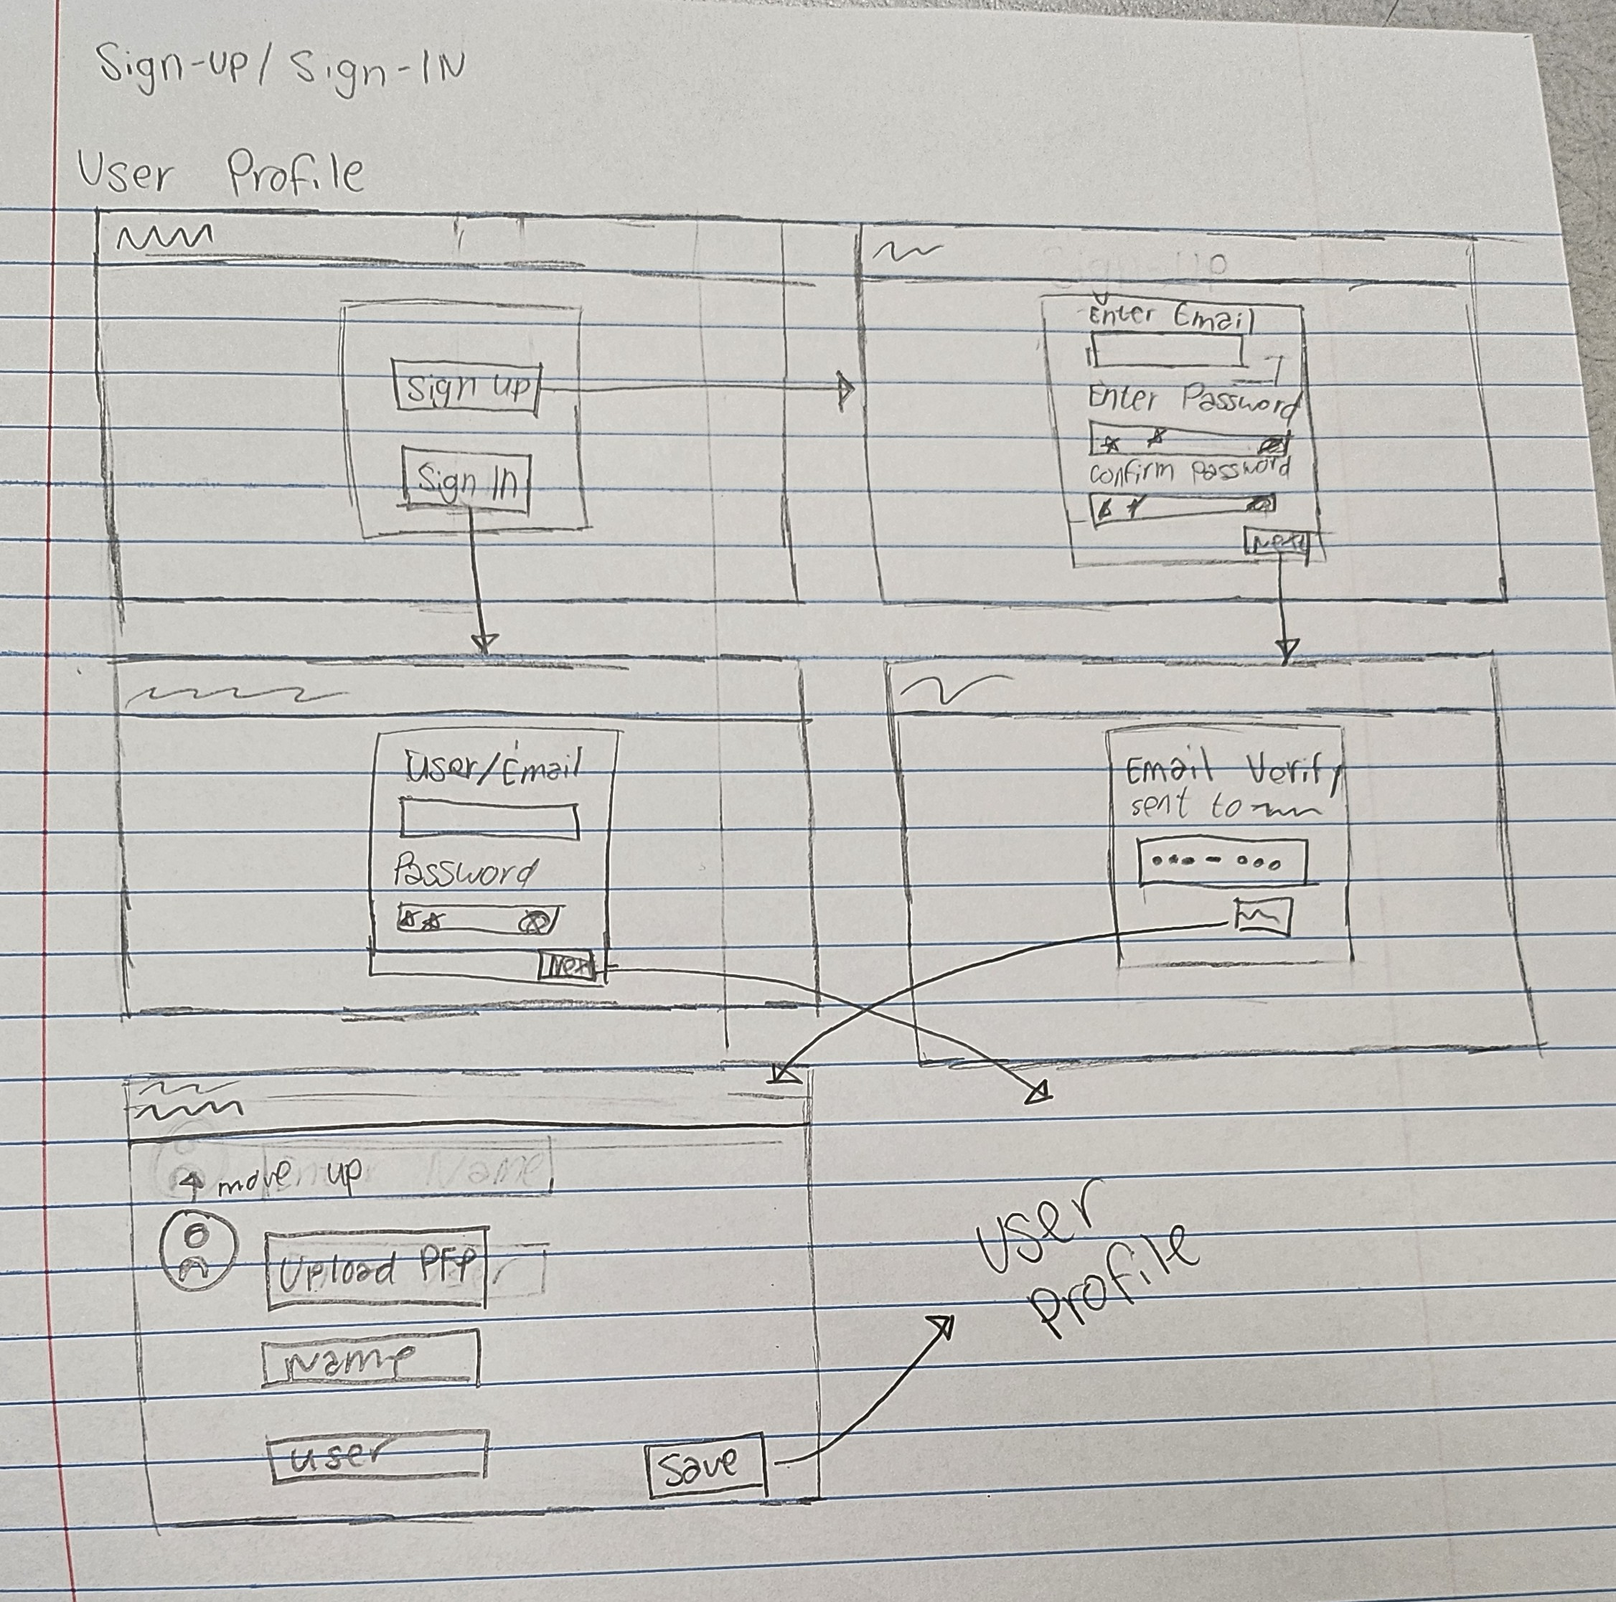
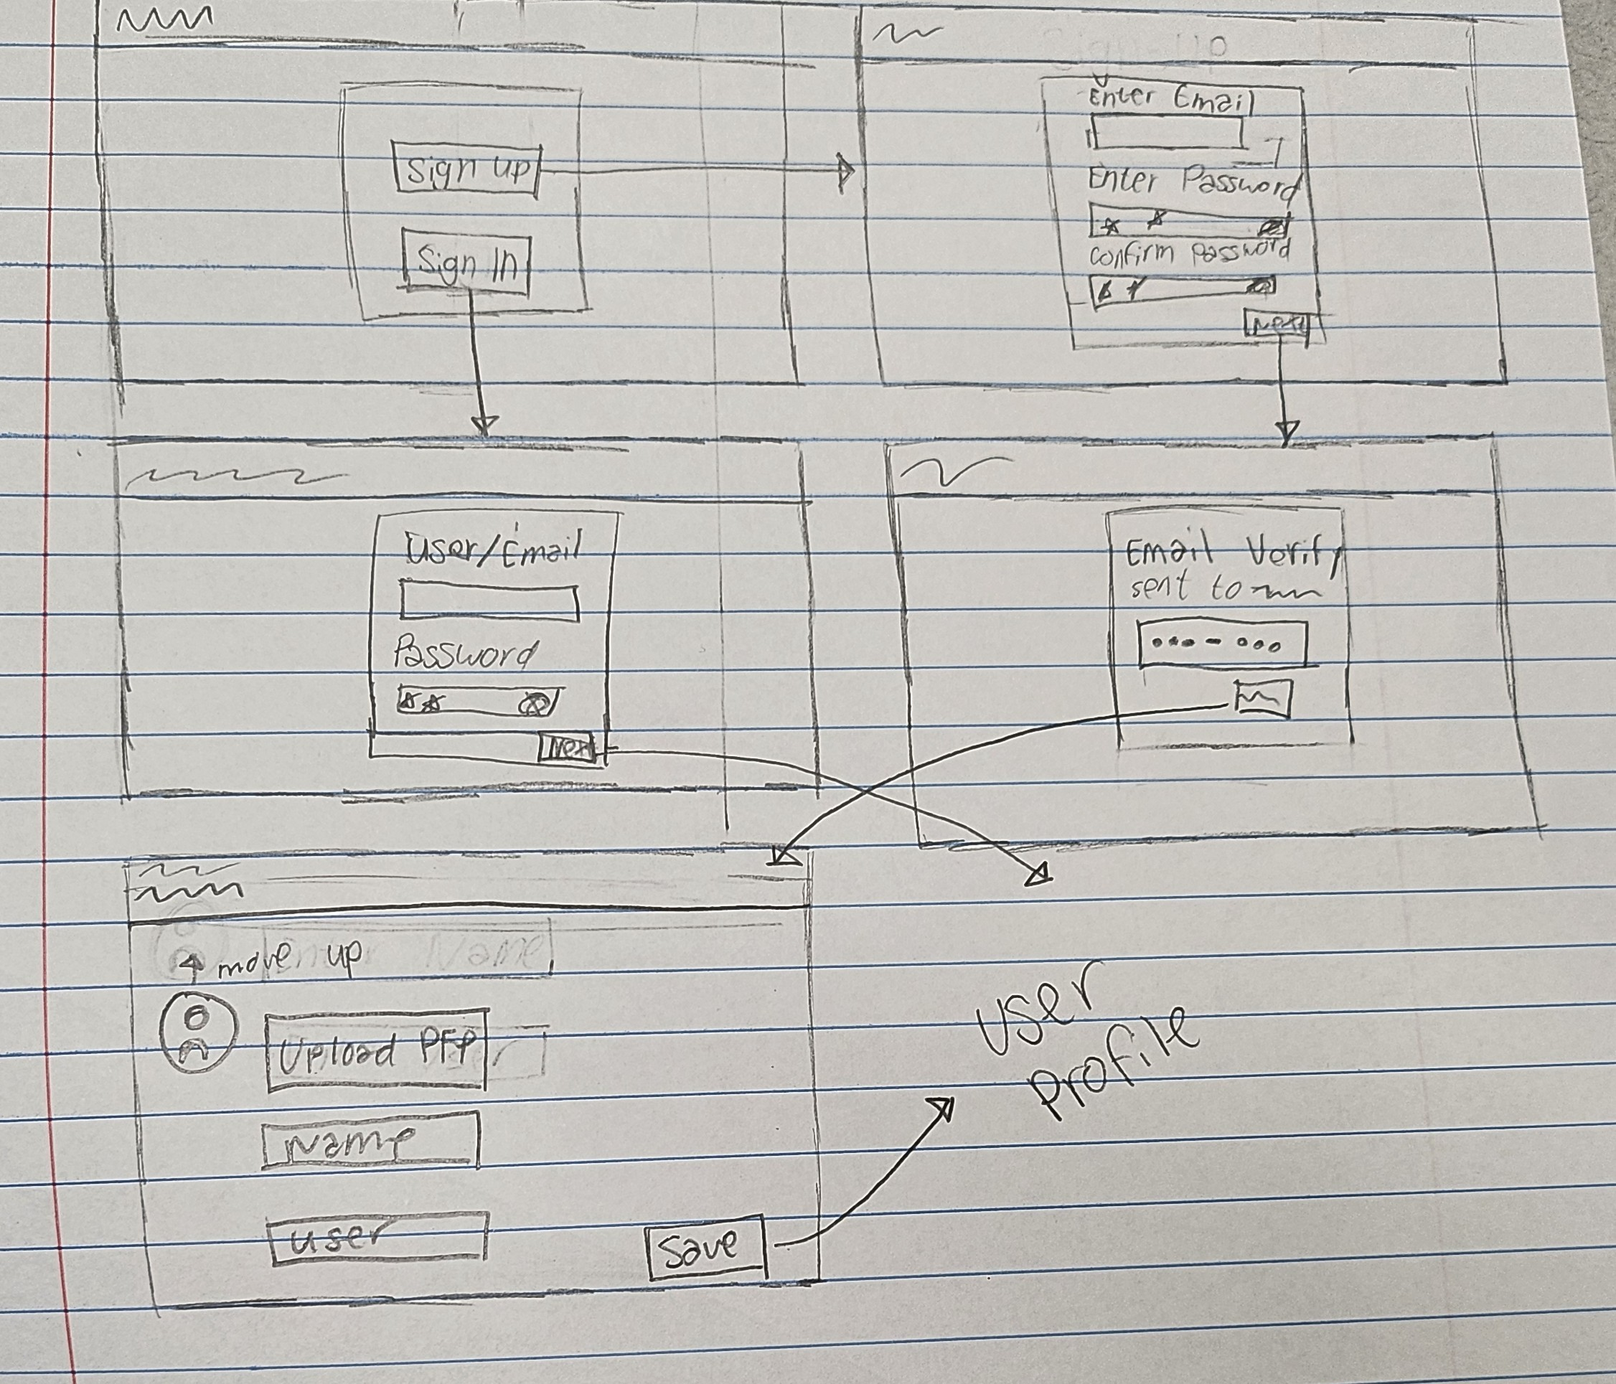
added more images, finished the kain na case study page

Changed region(s): [[0.0, 0.0, 1.0, 0.9953], [0.8703, 0.9953, 0.9636, 1.0]]

diff --git a/projects/kain-na.html b/projects/kain-na.html
@@ -44,13 +44,13 @@
                 <div class="case-hero-text">
                     <!-- Introductory text content -->
                     <h1 id="project-title">Kain Na!</h1>
-                    <p>Lorem ipsum dolor sit amet consectetur adipiscing elit occaecat sunt. Blanditiis nostrud incididunt possimus quis nulla minus libero laboris et deserunt nam in. Eos enim rerum quibusdam qui iusto commodo. Esse fugiat dolore nihil occaecat in. Omnis et dolor imperdiet animi nam sint dolore dolore in id.</p>
+                    <p>A recipe app designed to help Filipino Americans reconnect with their culture through home cooked meals. Our team set out to answer one question: how can we connect Filipino Americans back to their culture? Through interviews, we learned that food carries family, nostalgia, and belonging, so we designed an experience that makes cultural recipes easier to find, follow, and keep</p>
                 </div>
 
                 <dl class="case-meta project-info">
                     <div>
                     <dt>Role</dt>
-                    <dd>UX Designer</dd>
+                    <dd>UX/UI Designer</dd>
                     <dd>Collaborated with 6 other designers and 7 developers</dd>
                     </div>
                     <div>
@@ -61,7 +61,7 @@
                     <div>
                     <dt>Timeline</dt>
                     <dd>Jan 2026 - May 2026</dd>
-                    <dd>Winter/Spring 2026</dd>
+                    <dd>Completed Project</dd>
                     </div>
                 </dl>
 
@@ -79,8 +79,27 @@
                         </div>
                         <div class="phase-card">
                             <div class="phase-content">
-                                <h2>Phase Title</h2>
-                                <p>Lorem ipsum dolor sit amet consectetur adipiscing elit occaecat sunt. Blanditiis nostrud incididunt possimus quis nulla minus libero laboris et deserunt nam in. Eos enim rerum quibusdam qui iusto commodo. Esse fugiat dolore nihil occaecat in. Omnis et dolor imperdiet animi nam sint dolore dolore in id.</p>
+                                <h2>Understanding the Challenge</h2>
+                                <p><strong>Goal:</strong> Learn what home cooked meals meant to Filipino Americans and other young adults tied to their culture.
+                                <br><strong>What I did:</strong> With one of my teammates, I developed our interview protocol and we each ran 2 semi-structured interviews. We focused on speaking to college students about their family recipes, tradition, authenticity, homesickness, and challenges learning new dishes to cook at home. As a team, we synthesized our findings into an affinity map and created key pain points to guide our design decisions.
+                                <br><strong>What we found:</strong></p>
+                                <ul class="phase-findings">
+                                    <li>Food is a way to connect with family and culture.</li>
+                                    <li>Recipes are so often passed down verbally or by watching, so many details get lost or forgotten when it isn't written down.</li>
+                                    <li>Cooking unfamiliar dishes feels overwhelming, and many people would rather watch how it's done instead of just reading about it.</li>
+                                    <li>A seemingly simple recipe can vary from family to family, so just any recipe won't do if they want the one they grew up with.</li>
+                                    <li>Hard-to-find ingredients and unclear substitutions are a recurring barrier</li>
+                                </ul>
+                                <figure class="user-story">
+                                    <blockquote style="padding: 0;">
+                                        <p>I'm not trying to make the best dish, I'm trying to <mark class="highlight">replicate what my mom and grandma's food tastes like.</mark></p>
+                                    </blockquote>
+                                </figure>
+                                <div class="phase-images">
+                                    <figure class="phase-figure">
+                                        <img src="assets/kain na affinity.png" alt="Affinity diagram with points and quotes from user interviews grouped into 3 different pain points" class="phase-image">
+                                    </figure>
+                                </div>
                             </div>
                         </div>
                     </li>
@@ -92,10 +111,15 @@
                         </div>
                         <div class="phase-card">
                             <div class="phase-content">
-                                <h2>Phase Title</h2>
-                                <p>Lorem ipsum dolor sit amet consectetur adipiscing elit occaecat sunt. Blanditiis nostrud incididunt possimus quis nulla minus libero laboris et deserunt nam in. Eos enim rerum quibusdam qui iusto commodo. Esse fugiat dolore nihil occaecat in. Omnis et dolor imperdiet animi nam sint dolore dolore in id.</p>
+                                <h2>From Insights to Features</h2>
+                                <p><strong>Goal:</strong> Decide what the app needs to do based on what we heard.
+                                <br><strong>What we did:</strong> After creating our affinity diagram, we took each of the pain points and chose key features we wanted to include in order to adddress them. Increasing cooking confidence led us to create clear, visual recipe layouts. Uncommon ingrediants introduced the idea of a glossary to show potential alternatives. Family history became a key point to bring everything back to the culture, but not making it an obstacle to the recipe.</p>
                             </div>
-                            <img src="placeholder.jpg" alt="Phase Image" class="phase-image">
+                            <div class="phase-images">
+                                <figure class="phase-figure">
+                                    <img src="assets/kain na key features.png" alt="Groups of FigJam sticky notes listing off the key design features" class="phase-image">
+                                </figure>
+                            </div>
                         </div>
                     </li>
 
@@ -106,25 +130,100 @@
                         </div>
                         <div class="phase-card">
                             <div class="phase-content">
-                                <h2>Phase Title</h2>
-                                <p>Lorem ipsum dolor sit amet consectetur adipiscing elit occaecat sunt. Blanditiis nostrud incididunt possimus quis nulla minus libero laboris et deserunt nam in. Eos enim rerum quibusdam qui iusto commodo. Esse fugiat dolore nihil occaecat in. Omnis et dolor imperdiet animi nam sint dolore dolore in id.</p>
+                                <h2>Mapping the Sign-Up/Sign-In Flow</h2>
+                                <p><strong>Goal:</strong> Make getting into the website simple and welcoming.
+                                <br><strong>What I did:</strong> I created the initial user flow diagram for the sign-up/sign-in and create profile processes. I started off with the user flow in Figma before creating hand-drawn low-fidelity mockups.</p>
                             </div>
-                            <img src="placeholder.jpg" alt="Phase Image" class="phase-image">
+                            <div class="phase-images">
+                                <figure class="phase-figure">
+                                    <img src="assets/kain na user flow.png" alt="FigJam User flow diagram outlining to process going from sign-up/sign-in to create profile" class="phase-image">
+                                </figure>
+                                <figure class="phase-figure">
+                                    <img src="assets/create-profile-paige.JPG" alt="Hand drawn mockup of the sign-up/sign-in process" class="phase-image">
+                            </div>
+                        </div>
+                    </li>
+
+                    <li class="phase-item">
+                        <div class="phase-marker">
+                            <span class="phase-label">Phase</span>
+                            <span class="phase-number">3</span>
+                        </div>
+                        <div class="phase-card">
+                            <div class="phase-content">
+                                <h2>Mid-fidelity and Hi-fidelity Mockups</h2>
+                                <p><strong>Goal:</strong> Use Figma to create mid-fidelity and hi-fidelity mockups of the sign-up/sign-in and create profile processes.
+                                <br><strong>What I did:</strong> I started with grayscale mid-fidelity wireframes of sign-in, sign-up, and create account to focus on layout and hierarchy. The create account screen collects an optional profile picture, name, username, bio, and interests, which tie back to the cultural connection theme. I then applied the visual style, including a soft blue palette and clear form labels with required field markers.
+                                <br><strong>What changed between versions:</strong></p>
+                                <ul class="phase-findings">
+                                    <li>Email-based sign-in became username-based, which simplified the form.</li>
+                                    <li>The sign-up form now collects first and last name up front.</li>
+                                </ul>
+                            <div class="phase-images">
+                                <figure class="phase-figure phase-images--stack">
+                                    <img src="assets/sign-in mid fi.png" alt="Mid-fidelity grayscale sign-in and sign-up screens" class="phase-image">
+                                </figure>
+                                <figure class="phase-figure">
+                                    <img src="assets/sign up hi fi.png" alt="Hi-fidelity sign-in and sign-up screens with a soft blue branding and a cute chef logo" class="phase-image">
+                                </figure>
+                                <div class="prototype-buttons-container">
+                                    <a href="https://www.figma.com/design/tON1N8Hsmj9dW1VQwqSlkv/-Team-1--Design-Files?node-id=6-20&t=uKBXORU6CSZUIarC-1" target="_blank" rel="noopener noreferrer" aria-label="View Mid-Fidelity Mockup (opens in new tab)" class="btn">View Mid-Fidelity Mockup</a>
+                                    <a href="https://www.figma.com/design/tON1N8Hsmj9dW1VQwqSlkv/-Team-1--Design-Files?node-id=6-21&t=uKBXORU6CSZUIarC-1" target="_blank" rel="noopener noreferrer" aria-label="View Hi-Fidelity Mockup (opens in new tab)" class="btn">View Hi-Fidelity Mockup</a>
+                                </div>
+                            </div>
+                        </div>
+                    </li>
+
+                    <li class="phase-item">
+                        <div class="phase-marker">
+                            <span class="phase-label">Phase</span>
+                            <span class="phase-number">4</span>
+                        </div>
+                        <div class="phase-card">
+                            <div class="phase-content">
+                                <h2>Component Ownership</h2>
+                                <p><strong>Goal:</strong> Create reusable pieces that keep the interface consistent and make developer handoff easier.
+                                <br><strong>What I did:</strong> I was assigned to work on a couple of additional key components for the app, including a recipe pop-up and an ingredient slide-out. I created blank mid-fidelity wireframes to focus on layout and hierarchy, making sure to include all the necessary information (author, rating, and details) when a user goes to expand the recipe before fully opening it. I then worked on reusing components made by my other teammates from the glossary section to create an ingrediant glossary slide out to show alternatives for hard-to-find ingredients.
+                                <br><strong>Why these are important:</strong></p>
+                                <ul class="phase-findings">
+                                    <li>The recipe pop-up gives users a brief introduction to the meal in order to help make sure it's a recipe they actually wanted to make.</li>
+                                    <li>During the design process, we found that users would have to keep going back and forth to access the ingrediant glossary. So instead we offered the option to open it right when you are in the middle of a recipe without losing your page.</li>
+                                </ul>
+                            <div class="phase-images">
+                                <figure class="phase-figure phase-images--stack">
+                                    <img src="assets/blank components.png" alt="Different states and iterations of the recipe pop-up and the ingrediant slide-out components" class="phase-image">
+                                </figure>
+                                <figure class="phase-figure">
+                                    <img src="assets/recipe pop up.png" alt="The recipe pop-up from the prototype showcasing the kind of information users will be able to see first" class="phase-image">
+                                </figure>
+                                <figure class="phase-figure">
+                                    <img src="assets/ingrediant slide out.png" alt="Recipe page with the ingredient glossary slide-out open" class="phase-image">
+                                </figure>
+                            </div>
                         </div>
                     </li>
 
                     <li class="phase-item">
                         <div class="phase-marker" style="border-color: #FFC663;">
                             <span class="phase-label">Phase</span>
-                            <span class="phase-number" style="color: #FFC663;">3</span>
+                            <span class="phase-number" style="color: #FFC663;">5</span>
                         </div>
                         <div class="phase-card">
                             <div class="phase-content">
-                                <h2>Phase Title</h2>
-                                <h3>[Phase Status]</h3>
-                                <p>Lorem ipsum dolor sit amet consectetur adipiscing elit occaecat sunt. Blanditiis nostrud incididunt possimus quis nulla minus libero laboris et deserunt nam in. Eos enim rerum quibusdam qui iusto commodo. Esse fugiat dolore nihil occaecat in. Omnis et dolor imperdiet animi nam sint dolore dolore in id.</p>
+                                <h2>Prototyping, Developer Hand-off, and Final Presentation</h2>
+                                <h3>COMPLETE</h3>
+                                <p><strong>Goal:</strong> Make the design behave like a real product, set the dev team up to build it, and present the finished result.
+                                <br><strong>What I did:</strong> I fully prototyped the app in Figma, including the interactions between screens, then passed it to our dev team. Designers delivered high-fidelity mockups, style guides, and interactive prototypes so the final code matched the intended look and behavior. Developers then turned those designs into a working website using Next.js, Express, SQL, and Supabase. We presented the finished product at the FUSION ICS expo at the end of the second quarter.
+                                <br><strong>The final result:</strong> As a team we successfully cdesigned and built a recipe-sharing platform where users can:</p>
+                                <ul>
+                                    <li>Browse and follow along with authentic Filipino recipes.</li>
+                                    <li>Learn about the history and culture behind each dish.</li>
+                                    <li>Share their own recipes and connect with other users.</li>
+                                    <li>Look up ingredients and find substitutes, so flavors can be recreated anywhere.</li>
+                                </ul>
+                                <p><strong>What I learned:</strong> This project was a great opportunity to work on a team of designers and developers, and to learn how to collaborate effectively. I learned how to create reusable components, how to prototype interactions, and how to communicate design decisions to developers. I also learned how to present my work in a clear and concise way, and how to give and receive feedback.</p>
                             </div>
-                            <img src="placeholder.jpg" alt="Phase Image" class="phase-image">
+                            <img src="assets/Kain Na! Poster.jpg" alt="Kain Na! project expo poster" class="phase-image">
                         </div>
                     </li>
                 </ol>

diff --git a/projects/case-study.css b/projects/case-study.css
@@ -86,6 +86,7 @@
 .prototype-buttons-container {
   display: flex;
   justify-content: center;
+  gap: 20px;
 }
 
 
@@ -238,18 +239,29 @@
   margin-bottom: 0;
 }
 
+.phase-images {
+  display: grid;
+  gap: 12px;
+  align-items: center;
+  justify-items: center;
+  width: 100%;
+  max-width: 700px;
+  margin: 0 auto;
+}
+
+.phase-content .phase-images {
+  margin-top: 24px;
+}
+
+.phase-figure {
+  margin: 0;
+}
+
 .phase-image {
   display: block;
   width: 100%;
-  max-width: 811px;
-  margin: 0 auto;
-  aspect-ratio: 16 / 9;
-  object-fit: contain;
+  height: auto; 
   border-radius: 10px;
-}
-
-.phase-content .phase-image {
-  margin-top: 24px;
 }
 
 .user-story {
@@ -263,23 +275,7 @@
 
 .user-story::before {
   content: "\201C";
-  content: "\201C" / ""; /* empty alt text keeps screen readers from announcing it, where supported */
-  position: absolute;
-  top: 8px;
-  left: 20px;
-  font-size: 80px;
-  font-weight: 800;
-  line-height: 1;
-  color: var(--color-accent);
-}
-
-.user-story blockquote {
-  margin: 0;
-}
-
-.user-story::before {
-  content: "\201C";
-  content: "\201C" / ""; /* empty alt text keeps screen readers from announcing it, where supported */
+  content: "\201C" / ""; 
   position: absolute;
   top: 8px;
   left: 20px;

diff --git a/projects/quizlet-redesign.html b/projects/quizlet-redesign.html
@@ -61,7 +61,7 @@
                     <div>
                     <dt>Timeline</dt>
                     <dd>Apr 2025 - Jun 2025</dd>
-                    <dd>Spring 2025</dd>
+                    <dd>Completed Project</dd>
                     </div>
                 </dl>
 
@@ -126,7 +126,11 @@
                                     <p>As a student, I want to <mark class="highlight">search through public student verified flashcard sets</mark>, so that I can find the most accurate and beneficial information to study..</p>
                                 </blockquote>
                             </figure>
-                            <img src="assets/quizlet task flow.png" alt="Comparison of the original and redesigned task flow" class="phase-image">
+                            <div class="phase-images">
+                                <figure class="phase-figure">
+                                    <img src="assets/quizlet task flow.png" alt="Comparison of the original and redesigned task flow" class="phase-image">
+                                </figure>
+                            </div>
                         </div>
                     </li>
 
